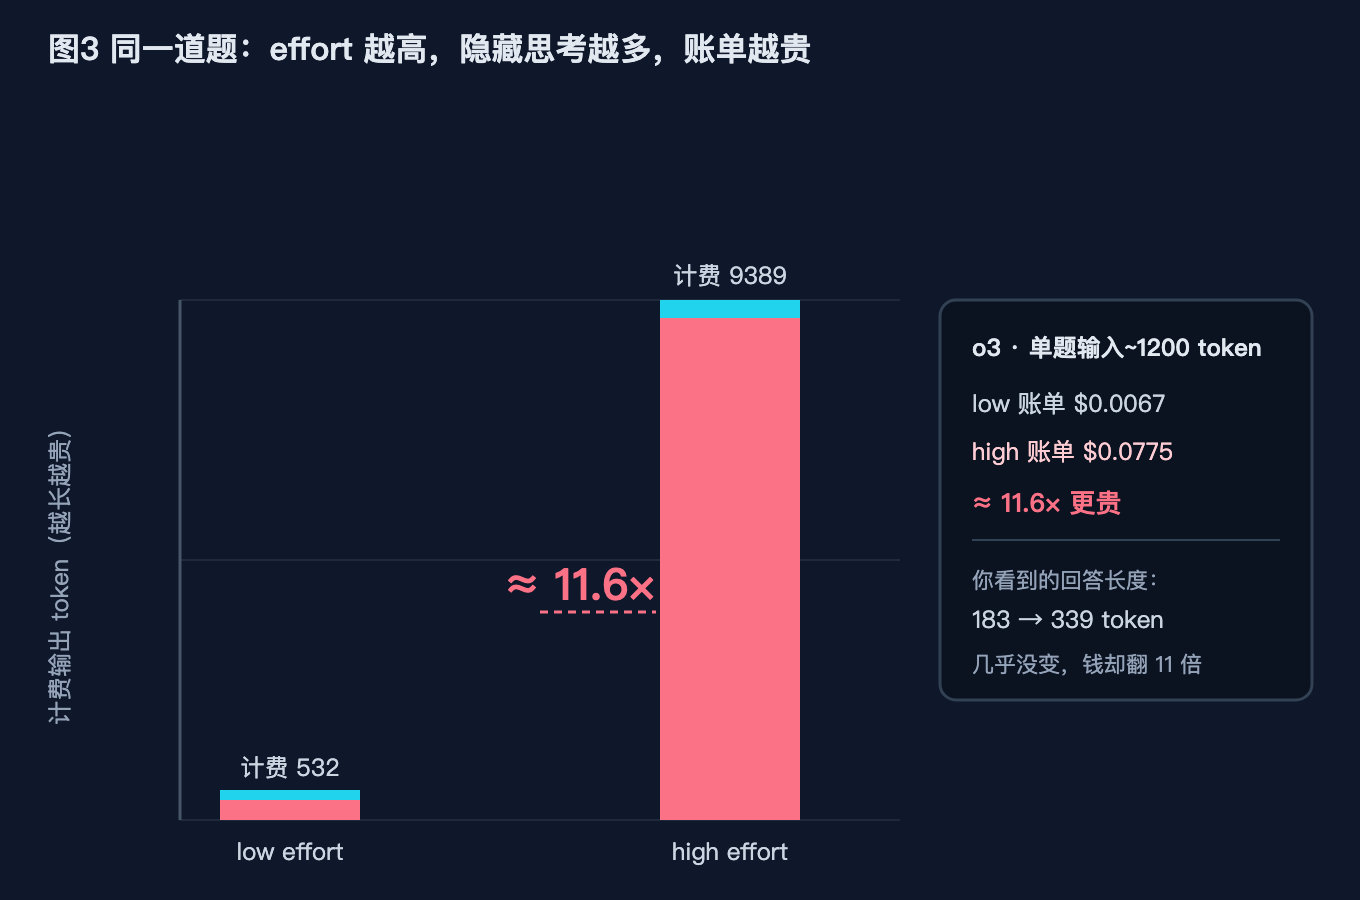
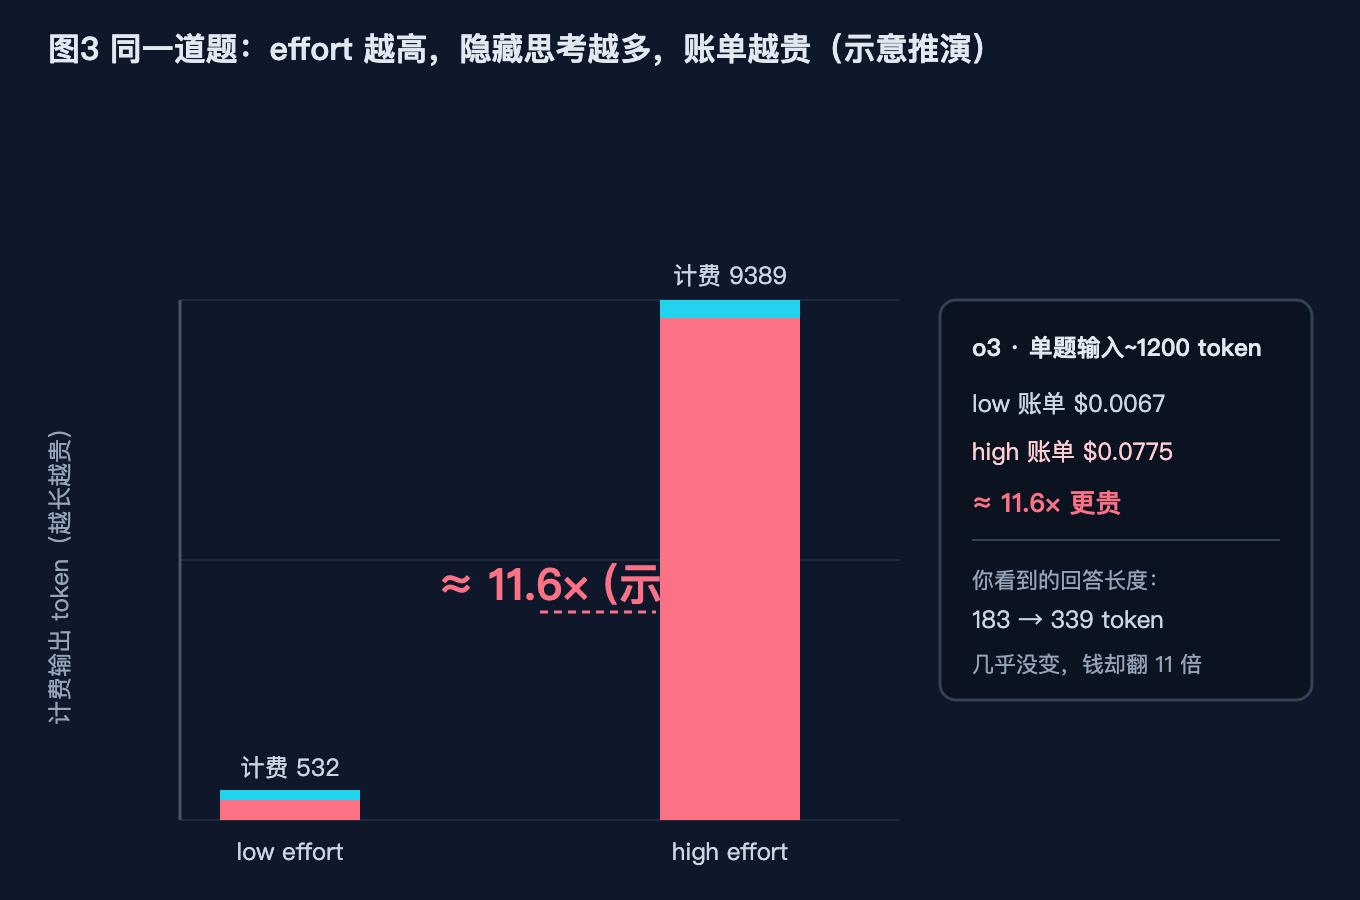
rebuild #27 定量脊梁：真实依据(官方机制+论文实测)推前台，模拟器降级为示意教具并全文标注

Changed region(s): [[0.3088, 0.6222, 0.4941, 0.6844], [0.6176, 0.0311, 0.7412, 0.0933]]

diff --git a/2026-09-19-推理模型隐藏思考账单/推理模型隐藏思考账单-掘金-2026-09-19.md b/2026-09-19-推理模型隐藏思考账单/推理模型隐藏思考账单-掘金-2026-09-19.md
@@ -198,17 +198,18 @@ $ python 02_overthinking.py --self-test
 SELF-TEST PASS
 ```
 
-`01` 计费模拟实跑（加载 o3 计价参数，同题，输入 1200 token）：
+`01` 计费模拟（加载 o3 计价参数，**示意推演**，同题，输入 1200 token）：
 - effort=low：可见 183、隐藏 349、计费输出 532、账单 $0.0067
 - effort=high：可见 339、隐藏 9050、计费输出 9389、账单 $0.0775
-- 比值：high 比 low 贵约 11.6×，可见回答长度几乎不变（183 → 339），贵的全是隐藏思考。
+- 比值：high 比 low 贵约 11.6×，可见回答长度几乎不变（183 → 339）——**这是我的 toy 参数结果，不是 o3 实测**。
 
-`02` 过度思考实跑（关键任务）：
+`02` 过度思考模拟（关键任务，**形状示意**，非真实模型数值）：
 - 加法 1+1：最优预算约 250 token、峰值准确率 0.914；预算 500 时跌到 0.531（OverScore 2.0）。
 - 小学数学 GSM：最优预算约 1150、峰值 0.854；预算 3000 时掉到 0.428（过度思考区）。
 - 多步逻辑推断：最优预算约 2550、峰值 0.818；预算 8000 时掉到 0.366。
+- 对照参考来源里的论文实测（GSM-8K 峰值 87.3% → 15980 token 掉到 70.3% 等），本模拟只是用 toy 参数复现了同一「越过峰值就掉」的形状。
 
-两条 self-test 全绿，模拟数字与正文引用一致。脚本不连任何外部服务，假后端确定性可复现。
+两条 self-test 全绿，模拟数字与正文引用一致。脚本不连任何外部服务，假后端确定性可复现——但请记住它演的是机制，不是 o3 的账本。
 
 ## 坑自检清单
 
@@ -225,11 +226,11 @@ SELF-TEST PASS
 
 适合：正在把 o1/o3/R1 接进生产、被推理模型账单吓到、或发现「开了最强推理简单题反而错」的后端和算法工程师；也适合想搞清楚推理模型到底和常规模型差在哪的开发者。
 
-不适合：想找「一句话让你的推理成本降 90%」这种速效药的人——本文不提供这类承诺（见下一节）。
+不适合：想找「一句话让你的推理成本砍半」这种速效药的人——本文不提供这类承诺（见下一节）。
 
 ## 本文不承诺什么
 
-本文不承诺任何确定的成本节省比例或准确率提升比例。thinking tokens 的消耗、价格和性能曲线高度依赖你用的具体模型版本、厂商定价和任务分布，会随版本变动。本文给出的数字来自官方公开文档（价格、发布时间线）和**模拟脚本的实跑输出**（用于演示量级与趋势），不代表任何真实模型的精确数值，也不构成选型或采购建议。是否采用推理模型、用哪个档位，请以你自己的小批量实测为准。
+本文不承诺任何确定的成本节省比例或准确率提升比例。需要把话说死的是：**文章里所有"量级数字"（96%、11.6×、0.914→0.531 这类）都是我用 toy 参数跑模拟器得到的示意值，不是 o1/o3/R1 的实测值；o3 真实的 thinking:visible 比例官方从未公开。** 能作为事实依据的是两类东西——OpenAI / DeepSeek 官方文档写明的机制（thinking tokens 按输出计费、内部 CoT 默认隐藏、控制旋钮），以及参考来源里那些论文对"过度思考"的实测结论。thinking tokens 的消耗、价格和性能曲线高度依赖你用的具体模型版本、厂商定价和任务分布，会随版本变动，也不构成选型或采购建议。是否采用推理模型、用哪个档位，请以你自己的小批量实测为准。
 
 ## 参考来源
 
@@ -246,10 +247,10 @@ SELF-TEST PASS
 | --- | --- | --- |
 | 图 1 | `diagram/think-tokens/01-pipeline@2x.png` | 推理模型管线与账单三段拆解 |
 | 图 2 | `diagram/think-tokens/02-hidden-cot@2x.png` | 隐藏思考链的训练来源与三代价 |
-| 图 3 | `diagram/think-tokens/03-billing@2x.png` | 同题不同 effort 的计费对比（o3 计价参数模拟） |
+| 图 3 | `diagram/think-tokens/03-billing@2x.png` | 同题不同 effort 的计费示意推演（参数模拟，非 o3 实测） |
 | 图 4 | `diagram/think-tokens/04-overthinking@2x.png` | 过度思考的非单调曲线 |
 | 图 5 | `diagram/think-tokens/05-effort-control@2x.png` | 任务分档与预算控制旋钮 |
 
 ## 结尾钩子
 
-你上一次看推理模型账单的时候，有没有把思考 token 算进去？如果没算，你现在大概能猜到那消失的九成花在哪了。但更值得动手的，是回去翻翻你那些开在 high 档的简单请求——它们可能既花了最多的钱，又答得最差。你踩过哪条？评论区聊聊。
+你上一次看推理模型账单的时候，有没有把思考 token 算进去？如果没算，你现在大概能猜到那笔看不见的钱花在哪了。但更值得动手的，是回去翻翻你那些开在 high 档的简单请求——它们可能既花了最多的钱，又答得最差。你踩过哪条？评论区聊聊。
